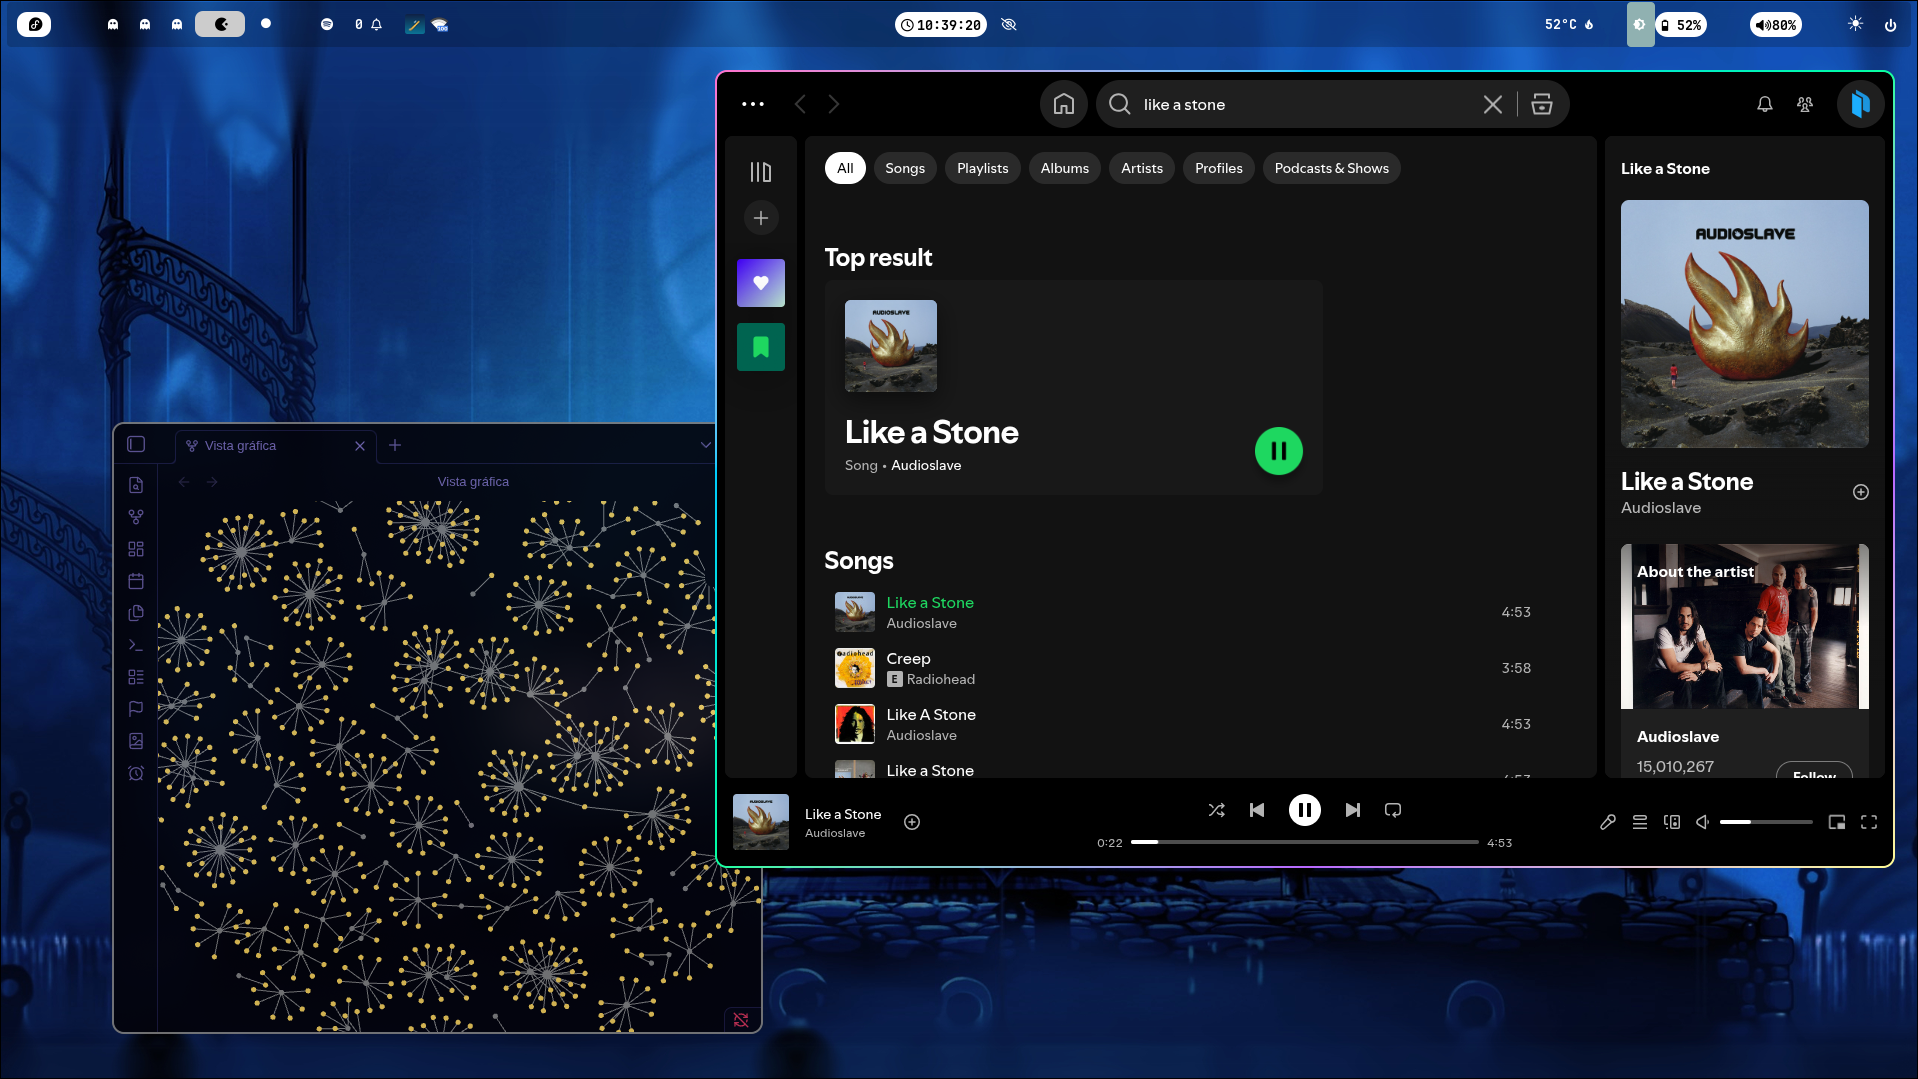
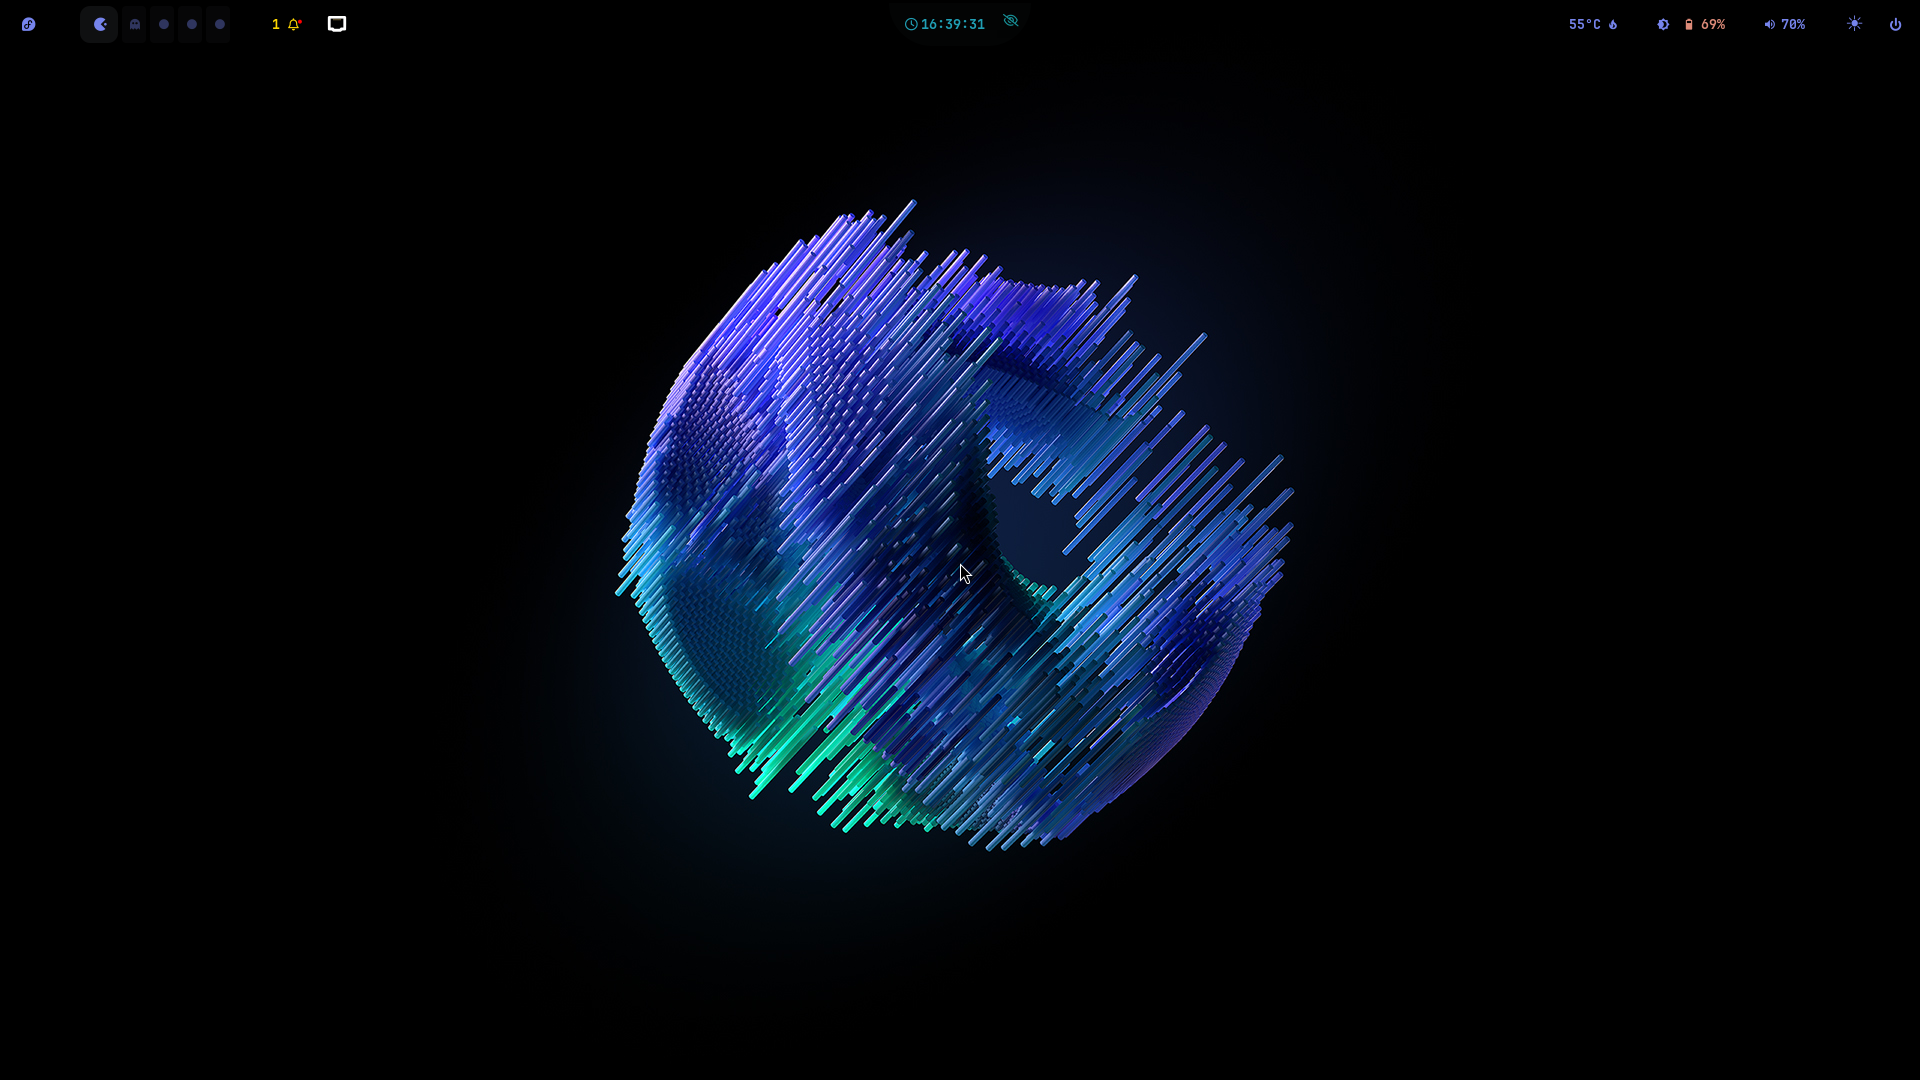
docs: update README.md
CLOSES #12

diff --git a/README.md b/README.md
@@ -14,7 +14,7 @@ Built on Fedora Linux with Hyprland, Kitty, and Zsh.
 
 ## Overview
 
-This repository contains my personal Linux configuration files managed with **chezmoi**.
+This repository contains my personal Linux configuration files managed with [chezmoi](https://www.chezmoi.io/).
 
 For a detailed history of changes, see the [CHANGELOG.md](./CHANGELOG.md).
 
@@ -49,7 +49,7 @@ cp .env.example .env
 task run:<OS> [TAG="<version>"]
 ```
 
-- `<OS>`: Target distribution (fedora or debian).
+- `<OS>`: Target distribution ( [fedora](https://github.com/P-mcg01/dotfiles/pkgs/container/dotfiles-fedora) or [debian](https://github.com/P-mcg01/dotfiles/pkgs/container/dotfiles-debian) ).
 - `TAG`: Container image tag from GHCR. Defaults to `dev` when omitted.
 
 Example:
@@ -61,7 +61,6 @@ task run:fedora TAG=v26.09.05-r2.2
 4. An interactive TTY session opens directly at `~/.local/share/chezmoi`.
 
 ```bash
-chezmoi init
 chezmoi status
 ```
 
